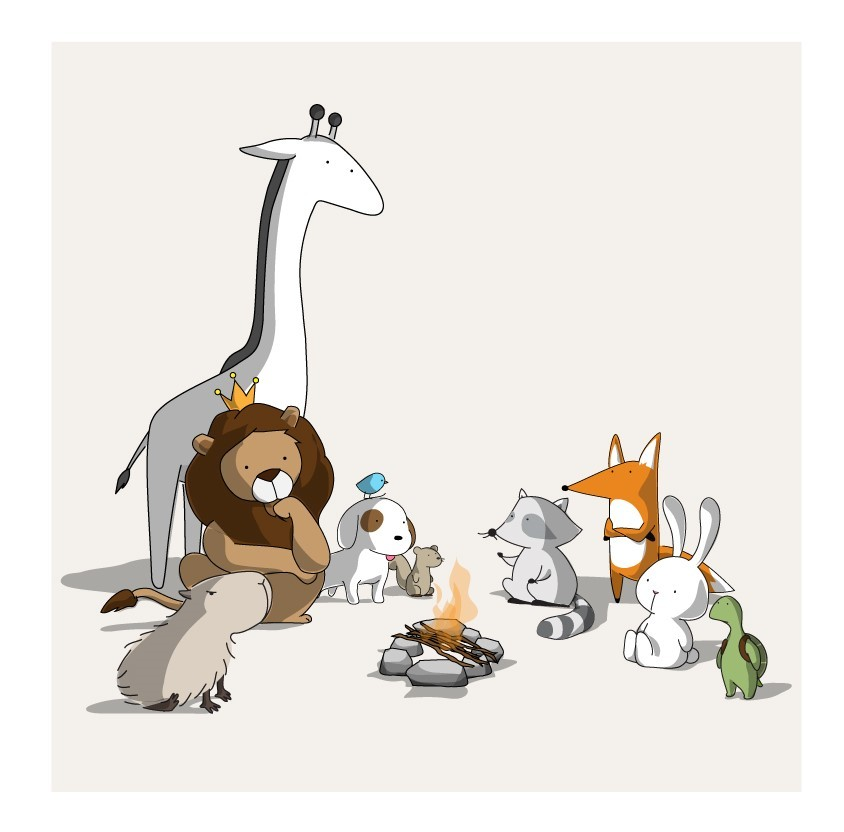
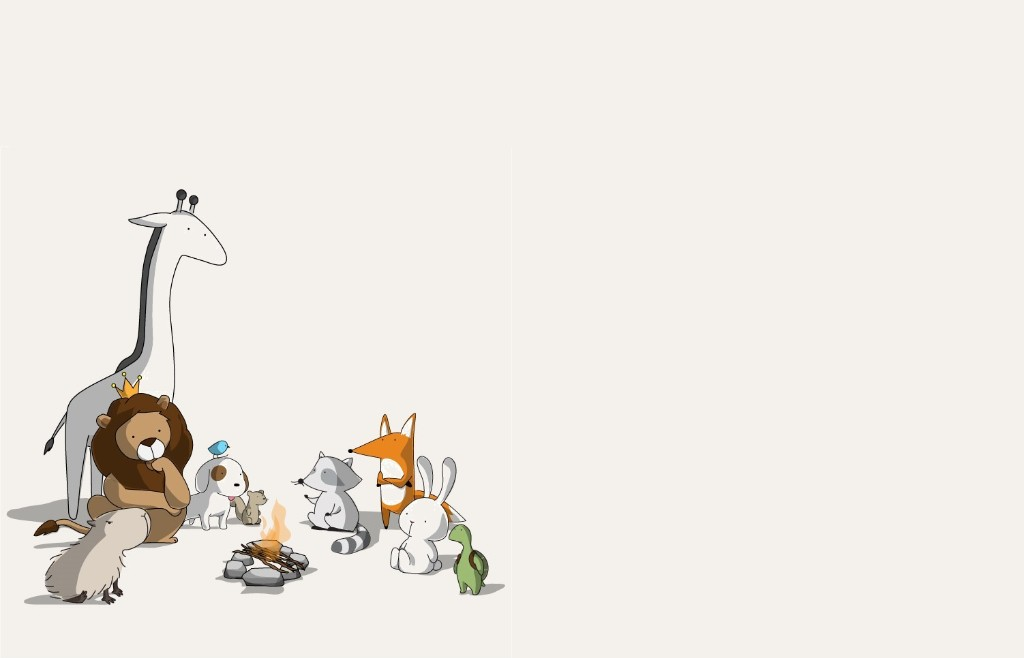
Use fireplace art as hero carousel background with text and book card overlay.

Changed region(s): [[0.0, 0.1216, 0.955, 0.9422], [0.4005, 0.2128, 0.4621, 0.2736], [0.4005, 0.1824, 0.4313, 0.2128]]

diff --git a/app/globals.css b/app/globals.css
@@ -747,52 +747,34 @@ h1, h2, h3, h4, h5, h6 {
 .hero-section {
     position: relative;
     margin-bottom: 60px;
-    background-color: #fff;
+    background-color: #f5f4f0;
     overflow: visible;
 }
 
-.hero-left {
+.hero-carousel {
     position: relative;
-    display: grid;
-    grid-template-columns: minmax(0, 1fr);
-    grid-template-rows: auto 1fr;
-    min-width: 0;
-    min-height: 100%;
-    overflow: visible;
+    z-index: 1;
+    overflow: hidden;
+    min-height: 560px;
 }
 
-.hero-left-bg {
-    grid-row: 1 / -1;
-    grid-column: 1;
-    align-self: stretch;
-    justify-self: start;
+/* Full-bleed fireplace artwork behind text + book card */
+.hero-stage-bg {
+    position: absolute;
+    inset: 0;
     z-index: 0;
-    height: 100%;
-    width: auto;
-    max-width: none;
-    margin-left: -140px;
     pointer-events: none;
     user-select: none;
 }
 
-.hero-left-bg img {
+.hero-stage-bg img {
     display: block;
+    width: 100%;
     height: 100%;
-    width: auto;
-    max-width: none;
-    object-fit: contain;
+    object-fit: cover;
     object-position: left bottom;
 }
 
-/* ???? ????? - ??????? ????????? */
-.hero-carousel {
-    position: relative;
-    z-index: 1;
-    overflow: visible;
-    min-height: 500px; /* Reserve space for iOS layout calculation */
-}
-
-/* ?? ?????? - ???????????, active ??????? ??????? */
 .hero-slide {
     position: absolute;
     top: 0;
@@ -801,13 +783,13 @@ h1, h2, h3, h4, h5, h6 {
     max-width: 100%;
     opacity: 0;
     visibility: hidden;
-    padding: 60px 0;
+    padding: 56px 0;
     transition: opacity 0.5s ease, visibility 0.5s ease;
     pointer-events: none;
     overflow: visible;
+    z-index: 1;
 }
 
-/* ?????? ?????? - ??? ?????????? */
 .hero-slide.active {
     position: relative;
     opacity: 1;
@@ -817,24 +799,25 @@ h1, h2, h3, h4, h5, h6 {
     overflow: visible;
 }
 
-/* ?????????- ??????? ??????? ????? ?? (2?? */
 .hero-content {
     display: grid;
-    grid-template-columns: minmax(0, 1.15fr) minmax(280px, 0.85fr);
-    gap: 48px;
-    align-items: stretch;
+    grid-template-columns: minmax(0, 1.2fr) minmax(260px, 340px);
+    gap: 40px;
+    align-items: start;
     max-width: 1100px;
     margin: 0 auto;
     width: 100%;
     overflow: visible;
+    position: relative;
+    z-index: 1;
+    min-height: 480px;
 }
 
 .hero-text {
-    grid-row: 1;
-    grid-column: 1;
-    padding-top: 8px;
+    padding-top: 12px;
     position: relative;
     z-index: 1;
+    max-width: 34rem;
 }
 
 .hero-status {
@@ -846,14 +829,16 @@ h1, h2, h3, h4, h5, h6 {
 }
 
 .hero-panel {
-    margin-top: 0;
-    align-self: end;
-    height: fit-content;
+    margin-top: 8px;
+    justify-self: end;
+    align-self: center;
+    width: 100%;
+    max-width: 340px;
     background: #fff;
     border-radius: 20px;
-    box-shadow: 0 12px 36px rgba(0, 0, 0, 0.08);
-    padding: 22px;
-    border: 1px solid #ececec;
+    box-shadow: 0 12px 36px rgba(0, 0, 0, 0.1);
+    padding: 20px;
+    border: 1px solid rgba(0, 0, 0, 0.06);
 }
 
 .hero-panel .hero-image-placeholder {
@@ -2449,14 +2434,17 @@ html:is(.site-en, .site-ko) .about-staff .staff-role > p.staff-contact-email {
     }
 
     .hero-carousel {
-        min-height: 400px; /* Smaller min-height for mobile */
+        min-height: 0;
+        overflow: visible;
+        background-color: #fff;
     }
 
     .hero-section {
         margin-bottom: 24px;
+        background-color: #fff;
     }
 
-    .hero-left-bg {
+    .hero-stage-bg {
         display: none;
     }
 
@@ -2465,13 +2453,20 @@ html:is(.site-en, .site-ko) .about-staff .staff-role > p.staff-contact-email {
         gap: 28px;
         width: 100%;
         max-width: 100%;
+        min-height: 0;
         overflow: visible;
+    }
+
+    .hero-text {
+        max-width: none;
     }
 
     .hero-panel {
         max-width: 420px;
         margin: 0 auto;
         width: 100%;
+        justify-self: center;
+        align-self: start;
     }
 
     .hero-image {

diff --git a/components/HeroCarousel.tsx b/components/HeroCarousel.tsx
@@ -69,6 +69,9 @@ export default function HeroCarousel() {
   return (
     <section className="hero-section">
       <div className="hero-carousel">
+        <div className="hero-stage-bg" aria-hidden="true">
+          <img src="/images/hero/fireplace.png" alt="" />
+        </div>
         {slides.map((slide, index) => (
           <div
             key={slide.id}
@@ -76,24 +79,19 @@ export default function HeroCarousel() {
           >
             <div className="container">
               <div className="hero-content">
-                <div className="hero-left">
-                  <div className="hero-text">
-                    {slide.imageLabel && (
-                      <p className="hero-status">{slide.imageLabel}</p>
-                    )}
-                    <h1>
-                      {slide.title.split('\n').map((line, lineIndex, lines) => (
-                        <span key={lineIndex}>
-                          {line}
-                          {lineIndex < lines.length - 1 && <br />}
-                        </span>
-                      ))}
-                    </h1>
-                    <p>{slide.description}</p>
-                  </div>
-                  <div className="hero-left-bg" aria-hidden="true">
-                    <img src="/images/hero/fireplace.png" alt="" />
-                  </div>
+                <div className="hero-text">
+                  {slide.imageLabel && (
+                    <p className="hero-status">{slide.imageLabel}</p>
+                  )}
+                  <h1>
+                    {slide.title.split('\n').map((line, lineIndex, lines) => (
+                      <span key={lineIndex}>
+                        {line}
+                        {lineIndex < lines.length - 1 && <br />}
+                      </span>
+                    ))}
+                  </h1>
+                  <p>{slide.description}</p>
                 </div>
 
                 <div className="hero-panel">
